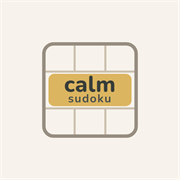
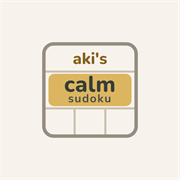
Publish 2026-11-28 21:42

Changed region(s): [[0.3889, 0.25, 0.6111, 0.3889]]

diff --git a/sw.js b/sw.js
@@ -1,1 +1,1 @@
-const CACHE_VERSION="43c8ece689",CACHE_NAME=`calm-sudoku-${CACHE_VERSION}`,NETWORK_TIMEOUT_MS=3e3,APP_FILES=["./","css/style.css","fonts/nunito-latin-variable.woff2","icons/apple-touch-icon.png","icons/icon-192.png","icons/icon-512.png","icons/icon-maskable-192.png","icons/icon-maskable-512.png","icons/share-preview.png","icons/supporter.svg","index.html","js/app.js","js/engine/worker.js","manifest.webmanifest"];self.addEventListener("install",n=>{n.waitUntil(caches.open(CACHE_NAME).then(e=>e.addAll(APP_FILES.map(t=>new Request(t,{cache:"reload"})))).then(()=>self.skipWaiting()))}),self.addEventListener("activate",n=>{n.waitUntil(caches.keys().then(e=>Promise.all(e.filter(t=>t.startsWith("calm-sudoku-")&&t!==CACHE_NAME).map(t=>caches.delete(t)))).then(()=>self.clients.claim()))}),self.addEventListener("fetch",n=>{const{request:e}=n;e.method!=="GET"||new URL(e.url).origin!==self.location.origin||n.respondWith(networkFirst(e))});async function networkFirst(n){const e=await caches.open(CACHE_NAME),t=fetch(n,{cache:"no-cache"}).then(i=>(i.ok&&e.put(withoutQuery(n.url),i.clone()),i));t.catch(()=>{});try{return await withTimeout(t,NETWORK_TIMEOUT_MS)}catch{const i=await e.match(n,{ignoreSearch:!0})??(n.mode==="navigate"?await e.match("index.html"):void 0);return i||t}}function withoutQuery(n){const e=new URL(n);return e.search="",e.href}function withTimeout(n,e){return new Promise((t,i)=>{const a=setTimeout(()=>i(new Error("timeout")),e);n.then(c=>{clearTimeout(a),t(c)},c=>{clearTimeout(a),i(c)})})}
+const CACHE_VERSION="4ee3235807",CACHE_NAME=`calm-sudoku-${CACHE_VERSION}`,NETWORK_TIMEOUT_MS=3e3,APP_FILES=["./","css/style.css","fonts/nunito-latin-variable.woff2","icons/apple-touch-icon.png","icons/icon-192.png","icons/icon-512.png","icons/icon-maskable-192.png","icons/icon-maskable-512.png","icons/share-preview.png","icons/supporter.svg","index.html","js/app.js","js/engine/worker.js","manifest.webmanifest"];self.addEventListener("install",n=>{n.waitUntil(caches.open(CACHE_NAME).then(e=>e.addAll(APP_FILES.map(t=>new Request(t,{cache:"reload"})))).then(()=>self.skipWaiting()))}),self.addEventListener("activate",n=>{n.waitUntil(caches.keys().then(e=>Promise.all(e.filter(t=>t.startsWith("calm-sudoku-")&&t!==CACHE_NAME).map(t=>caches.delete(t)))).then(()=>self.clients.claim()))}),self.addEventListener("fetch",n=>{const{request:e}=n;e.method!=="GET"||new URL(e.url).origin!==self.location.origin||n.respondWith(networkFirst(e))});async function networkFirst(n){const e=await caches.open(CACHE_NAME),t=fetch(n,{cache:"no-cache"}).then(i=>(i.ok&&e.put(withoutQuery(n.url),i.clone()),i));t.catch(()=>{});try{return await withTimeout(t,NETWORK_TIMEOUT_MS)}catch{const i=await e.match(n,{ignoreSearch:!0})??(n.mode==="navigate"?await e.match("index.html"):void 0);return i||t}}function withoutQuery(n){const e=new URL(n);return e.search="",e.href}function withTimeout(n,e){return new Promise((t,i)=>{const a=setTimeout(()=>i(new Error("timeout")),e);n.then(c=>{clearTimeout(a),t(c)},c=>{clearTimeout(a),i(c)})})}

diff --git a/index.html b/index.html
@@ -19,19 +19,19 @@
       document.documentElement.dataset.theme = 'light';
     }
   </script>
-  <title>Calm Sudoku</title>
+  <title>Aki's Calm Sudoku</title>
   <meta name="description" content="A calm, ad-free Sudoku with four daily puzzles, achievements and friendly challenges. Works offline.">
   <!-- Link previews (WhatsApp, Messages, Facebook, X…): the title, line and picture shown under a shared link. -->
   <meta property="og:type" content="website">
-  <meta property="og:site_name" content="Calm Sudoku">
-  <meta property="og:title" content="Calm Sudoku">
+  <meta property="og:site_name" content="Aki's Calm Sudoku">
+  <meta property="og:title" content="Aki's Calm Sudoku">
   <meta property="og:description" content="A calm, ad-free Sudoku with four daily puzzles, achievements and friendly challenges. Works offline.">
   <meta property="og:url" content="https://akiyamamai.github.io/CalmSudoku/">
   <meta property="og:image" content="https://akiyamamai.github.io/CalmSudoku/icons/share-preview.png">
   <meta property="og:image:type" content="image/png">
   <meta property="og:image:width" content="1200">
   <meta property="og:image:height" content="630">
-  <meta property="og:image:alt" content="The Calm Sudoku logo: a honey-coloured band across a Sudoku grid">
+  <meta property="og:image:alt" content="The Aki's Calm Sudoku logo: a honey-coloured band across a Sudoku grid">
   <meta name="twitter:card" content="summary_large_image">
   <link rel="manifest" href="manifest.webmanifest">
   <link rel="icon" href="icons/icon-192.png" type="image/png" sizes="192x192">
